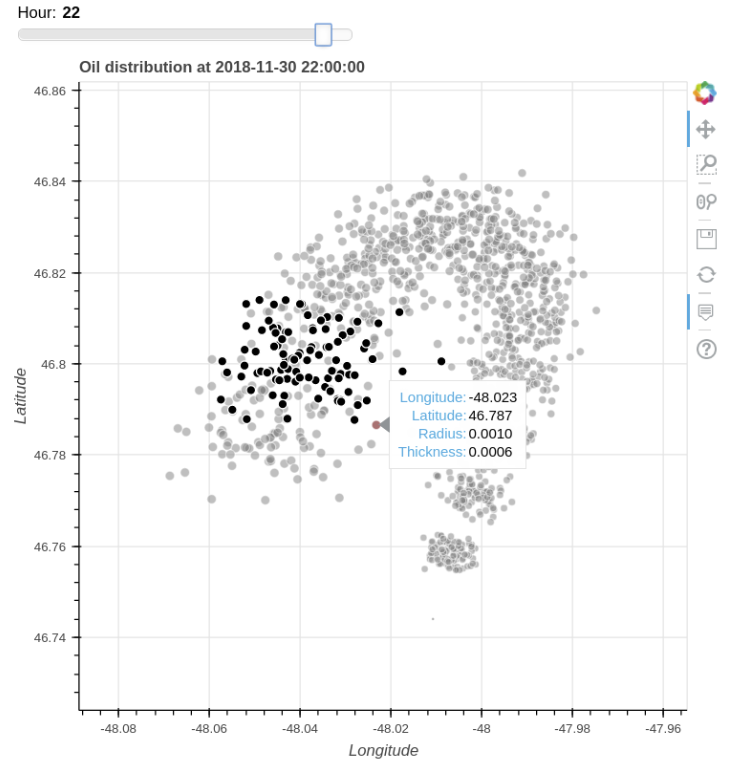
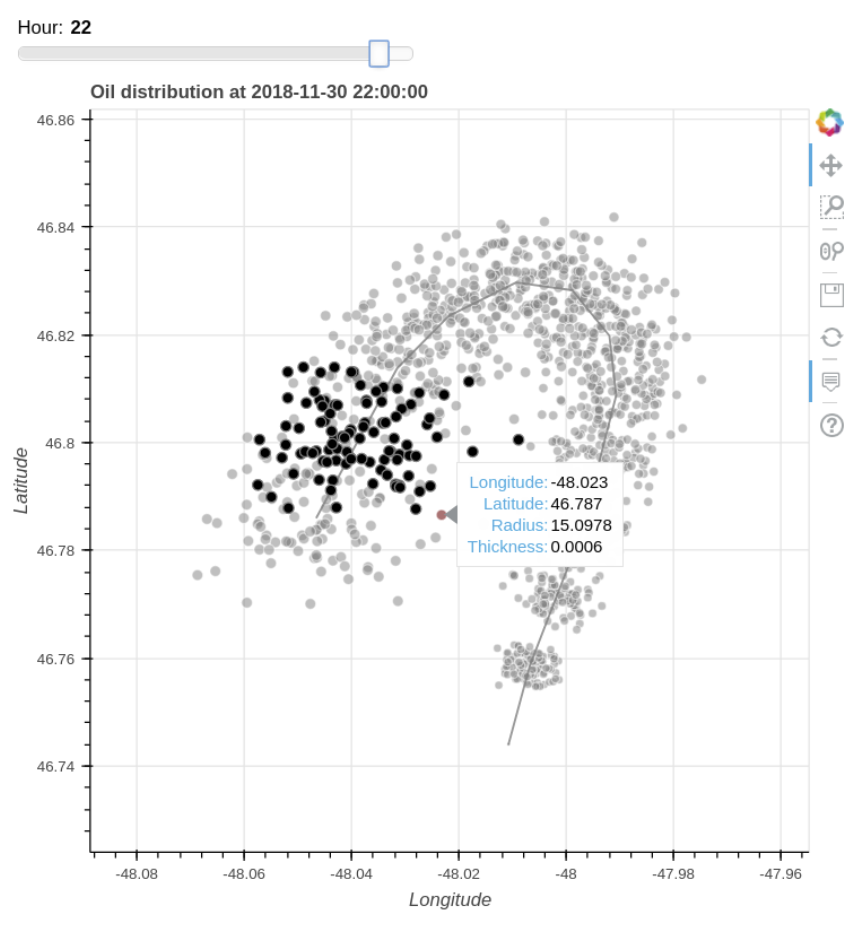
Add files via upload

diff --git a/oil_trajectory_slider.py b/oil_trajectory_slider.py
@@ -8,35 +8,56 @@ from bokeh.palettes import Spectral6
 from datetime import datetime, date, time, timedelta
 import pandas as pd
 
-StartDateTime = '2018-11-30 00:00:00'
+# Specify data file name
+filename = '../data/SWRX_OIL20181130.csv'
+
+def prepare_data(filename):
+    """
+    Prepare the data by converting UTC time to local time, and add new Series for plot
+    """
+    # Import data
+    data = pd.read_csv(filename, delimiter=",")
+
+    # Convert UTC time to Newfoundland time
+    data['LocalDateTime'] = pd.to_datetime(data['DateTime']).dt.tz_localize('UTC').dt.tz_convert('America/St_Johns').dt.tz_localize(None).dt.strftime('%Y-%m-%d %H:%M:%S')
+
+    # Define a scaled radius for circle plots
+    data['ScaledRadius'] = data['Radius']/15000.  # cirle size
+
+    # Set index to DateTime
+    data = data.set_index(pd.DatetimeIndex(data['LocalDateTime']))
+     
+    return data 
 
 def myapp():
     """
     Build the oil trajectory visulization app
     """
-
     ####################################
     # (0) Construct a ColumnDataSource #
     ####################################
 
-    # Import data
-    data = pd.read_csv('../data/SWRX_OIL20181130.csv', delimiter=",")
-
-    # Convert UTC time to Newfoundland time
-    data['LocalDateTime'] = pd.to_datetime(data['DateTime']).dt.tz_localize('UTC').dt.tz_convert('America/St_Johns').dt.tz_localize(None).dt.strftime('%Y-%m-%d %H:%M')
+    # Read data
+    data = prepare_data(filename)
    
-    # Set index to DateTime
-    data = data.set_index(pd.DatetimeIndex(data['LocalDateTime']))
+    # Get the beginning time of oil spill
+    StartDateTime = str(data['LocalDateTime'][0]) 
 
-    # Define a scaled radius for circle plots
-    data['ScaledRadius'] = data['Radius']/15000.  # cirle size
-
-    # Make a static ColumnDataSource for background plot
-    StaticSource = ColumnDataSource(data={
+    # Make a ColumnDataSource for background plot
+    BackgroundSource = ColumnDataSource(data={
         'x'         : data.loc[:,'Longitude'],
         'y'         : data.loc[:,'Latitude'],
         'radius'    : data.loc[:,'ScaledRadius'],
-        'thickness' : data.loc[:,'Thickness']
+        'thickness' : data.loc[:,'Thickness'],
+        'Radius'    : data.loc[:,'Radius']
+    })
+
+    # Make a ColumnDataSource for line plot
+    LineSource = ColumnDataSource(data={
+        'x' : data.loc[:,'Longitude'].resample('2H').mean(),
+        'y' : data.loc[:,'Latitude'].resample('2H').mean(),
+        'thickness' : data.loc[:,'Thickness'].resample('2H').mean(),
+        'Radius' : data.loc[:,'Radius'].resample('2H').mean()
     })
 
     # Make an initial ColumnDataSource: source
@@ -44,7 +65,8 @@ def myapp():
         'x'         : data.loc[StartDateTime,'Longitude'],
         'y'         : data.loc[StartDateTime,'Latitude'],
         'radius'    : data.loc[StartDateTime,'ScaledRadius'],
-        'thickness' : data.loc[StartDateTime,'Thickness']
+        'thickness' : data.loc[StartDateTime,'Thickness'],
+        'Radius'    : data.loc[StartDateTime,'Radius']
     })
 
     # Save the minimum and maximum values of the longitude column: xmin, xmax
@@ -77,7 +99,8 @@ def myapp():
             'x'         : data.loc[str(NewDateTime),'Longitude'],
             'y'         : data.loc[str(NewDateTime),'Latitude'],
             'radius'    : data.loc[str(NewDateTime),'ScaledRadius'],
-            'thickness' : data.loc[str(NewDateTime),'Thickness']
+            'thickness' : data.loc[str(NewDateTime),'Thickness'],
+            'Radius'    : data.loc[str(NewDateTime),'Radius']
         }
         
         # Assign new_data to source.data
@@ -105,16 +128,19 @@ def myapp():
     # (1.2) Add a HoverTool #
     #-----------------------#
     # Create a HoverTool: hover
-    hover = HoverTool(tooltips=[('Longitude','@x'),('Latitude','@y'),('Radius','@radius{0.0000}'),('Thickness','@thickness{0.0000}')])
+    hover = HoverTool(tooltips=[('Longitude','@x'),('Latitude','@y'),('Radius','@Radius{0.0000}'),('Thickness','@thickness{0.0000}')])
 
     #------------------------------------------------#
     # (1.3) Add the initial circle glypf to the plot #
     #------------------------------------------------#
     # Plot a circle glyph as a background
-    plot.scatter(source=StaticSource, x='x', y='y', radius='radius', marker='circle', alpha=0.5, fill_color='grey', line_color='white')
+    plot.scatter(source=BackgroundSource, x='x', y='y', radius='radius', marker='circle', alpha=0.5, fill_color='grey', line_color='white')
+
+    # Add an average path by resamping the DataFrame
+    plot.line(source=LineSource, x='x', y='y', color='grey', line_width=1.5, alpha=0.8)
 
     # Add circle glyphs to the plot
-    plot.scatter(source=source, x='x', y='y', radius='radius', marker='circle', alpha=1, fill_color='black', line_color='white', hover_fill_color='firebrick', hover_alpha=0.5, hover_line_color='white')
+    plot.scatter(source=source, x='x', y='y', radius='radius', marker='circle', alpha=1, fill_color='black', line_color='grey', hover_fill_color='firebrick', hover_alpha=0.5, hover_line_color='white')
 
     # Add the HoverTool to the plot
     plot.add_tools(hover)
